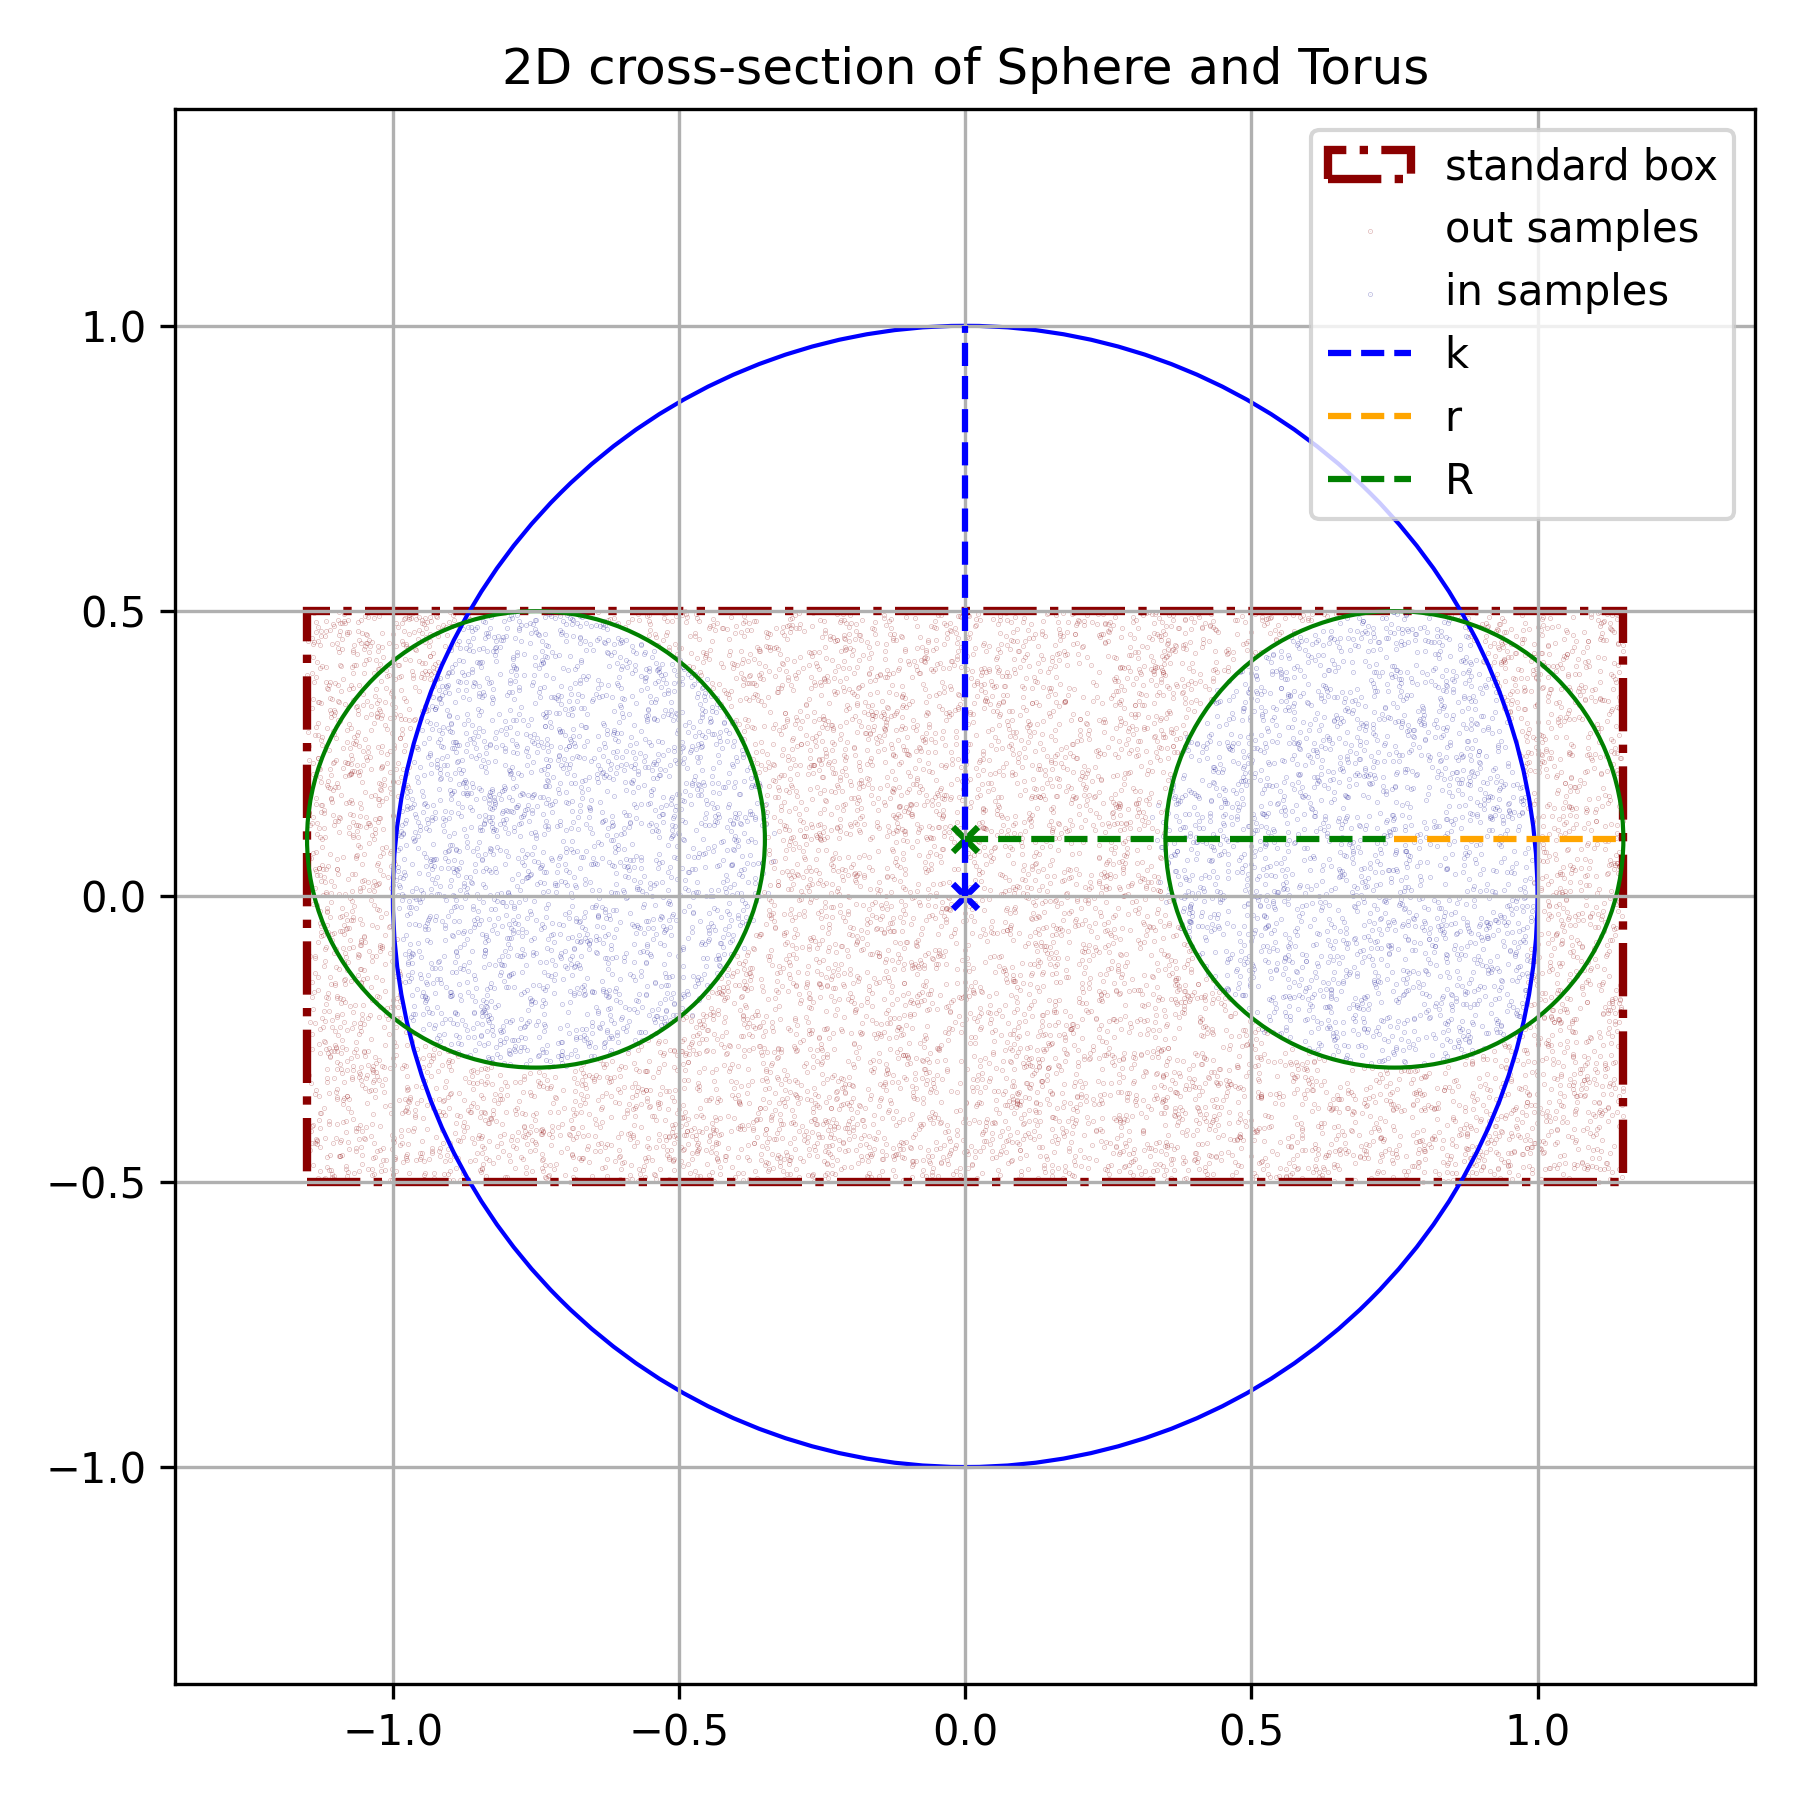
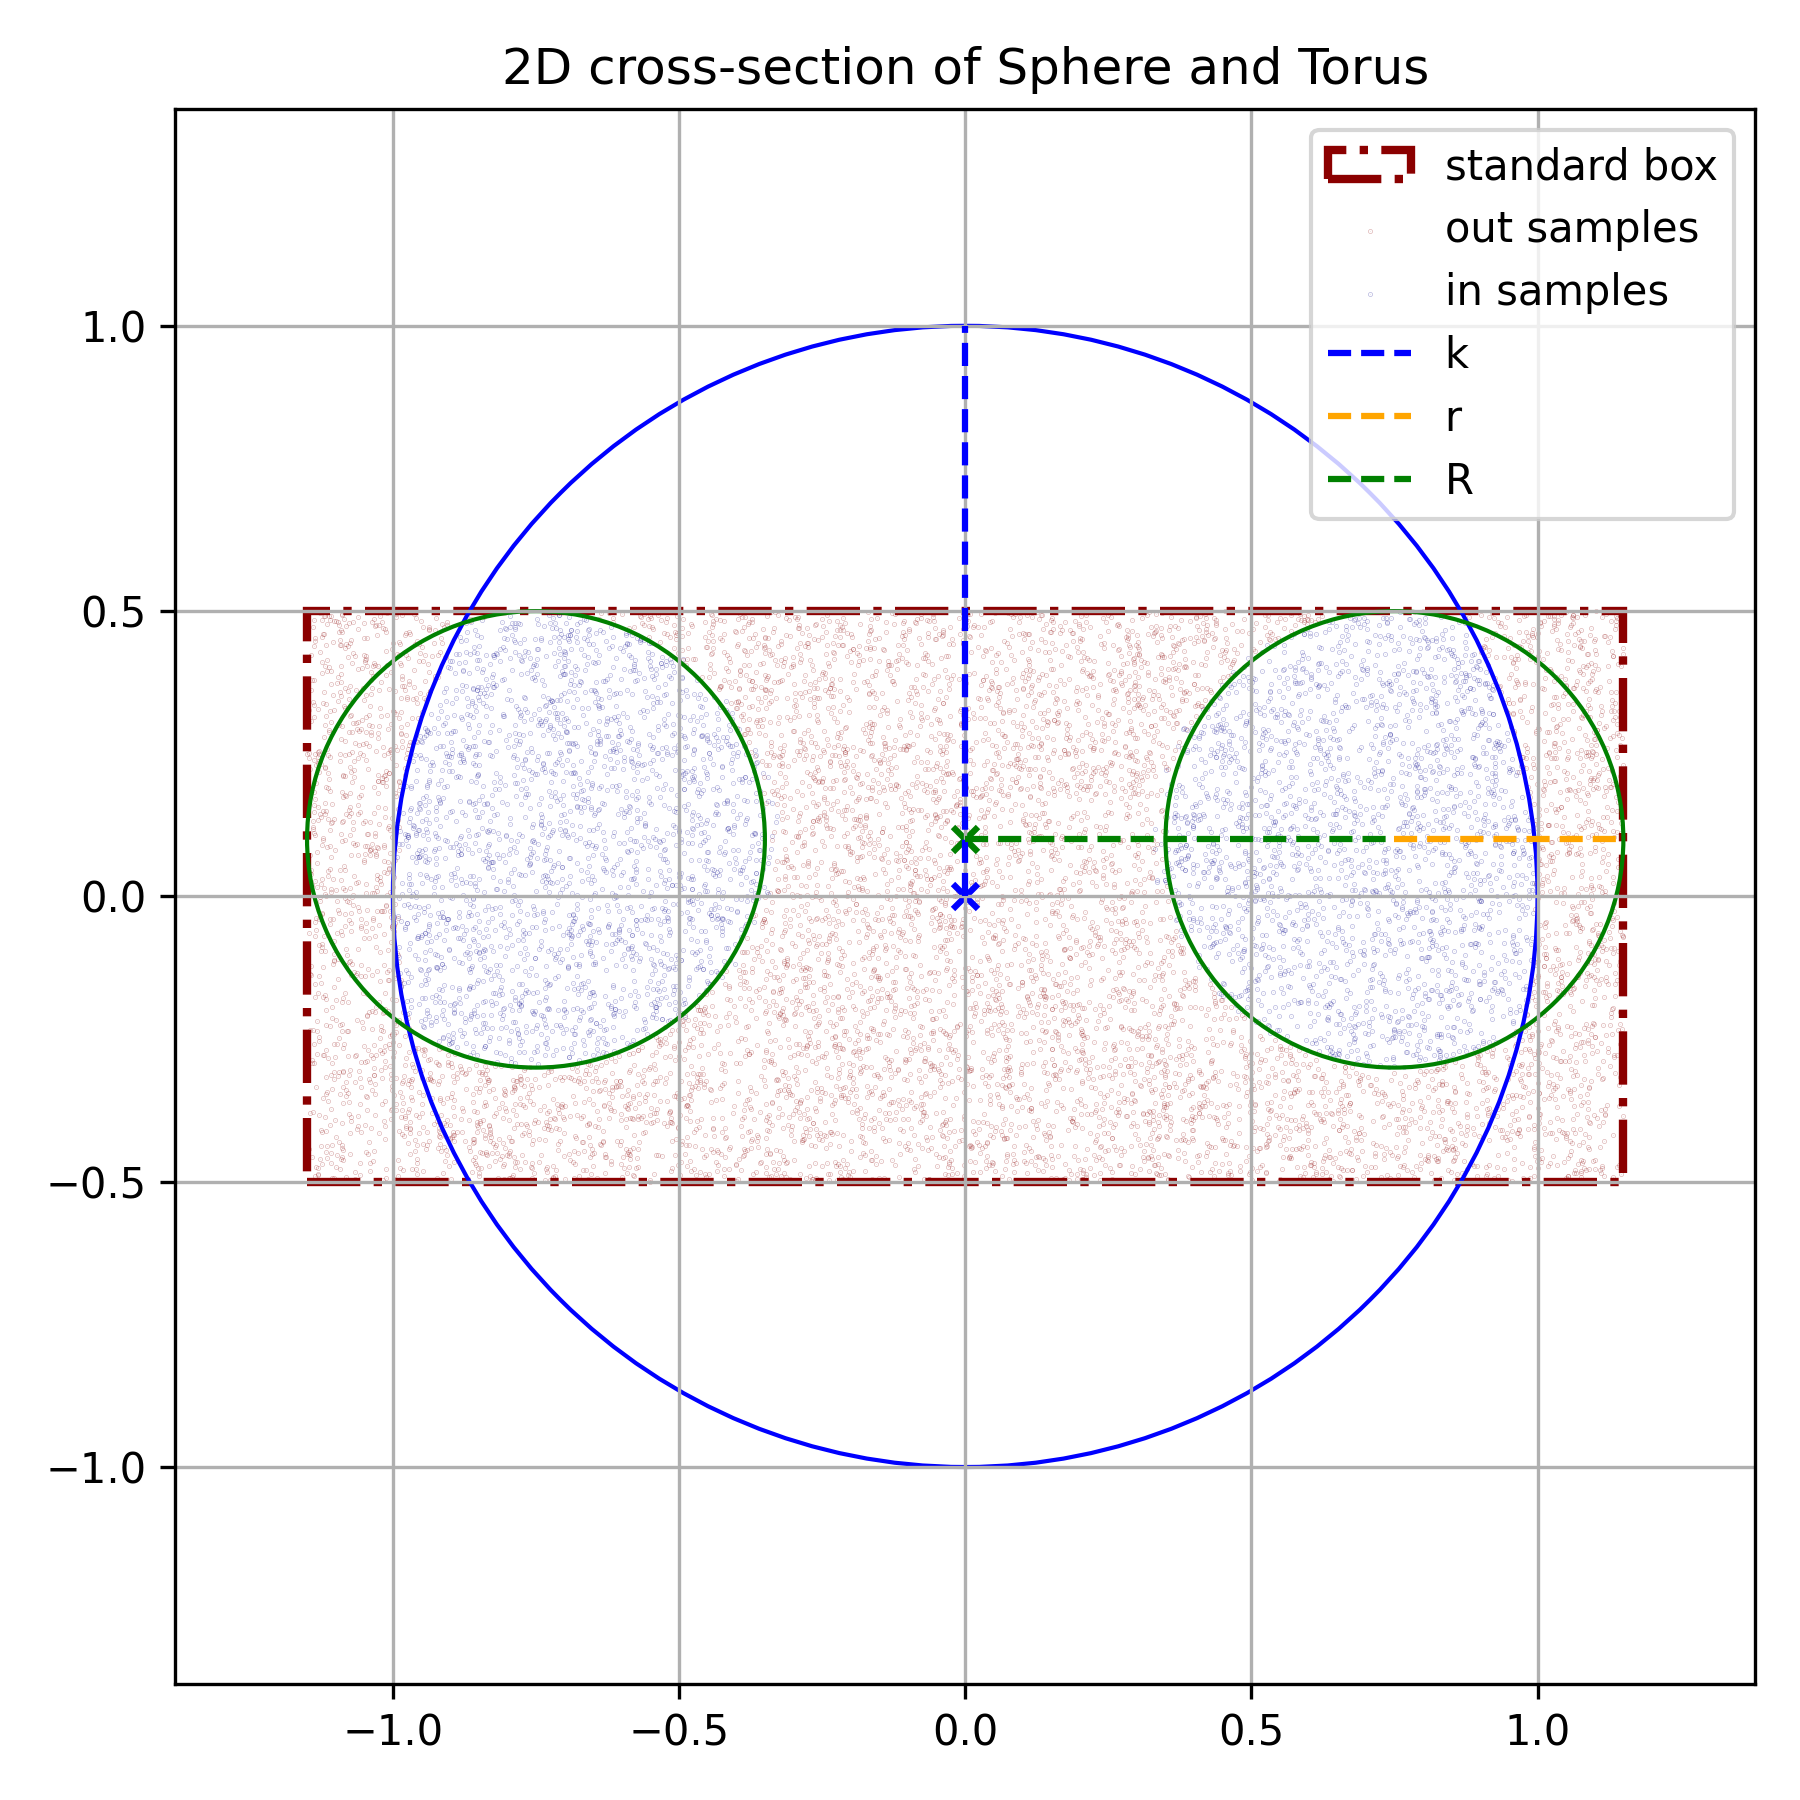
bomboclaat

Changed region(s): [[0.1556, 0.3422, 0.9022, 0.6533]]

diff --git a/main.py b/main.py
@@ -1,27 +1,35 @@
 from itertools import combinations, product
 
 import matplotlib.patches as mpatches
-from scipy.stats import norm
 import matplotlib.pyplot as plt
 import numpy as np
 import pandas as pd
 from matplotlib.axes import Axes
-from numpy.random import rand
+from numba import njit
+from scipy.stats import norm
 from tqdm import tqdm
-
-BBOX_STANDARD = []
-BBOX_SAMPLE = []
 
 
 def box_volume(box: list) -> float:
+    """
+    Calculates the volume of a 3D box defined by its min and max coordinates along each axis.
+    """
     return (box[0][1] - box[0][0]) * (box[1][1] - box[1][0]) * (box[2][1] - box[2][0])
 
 
 def box_2d_area(box: list) -> float:
+    """
+    Calculates the area of a 2D box defined by its min and max coordinates along each axis.
+    """
     return (box[0][1] - box[0][0]) * (box[1][1] - box[1][0])
 
 
-def box_standard(r: float, R: float, origin: list[float] = [0.0, 0.0, 0.0]) -> list:
+def box_standard(
+    r: float, R: float, origin: list[float] = [0.0, 0.0, 0.0]
+) -> list[list]:
+    """
+    Box exactly around the torus in 3D
+    """
     dy = R + r + origin[1]
     dx = R + r + origin[0]
     dz = r + origin[2]
@@ -42,6 +50,9 @@ def box_onesided_2d(r: float, R: float, origin: list[float] = [0.0, 0.0]) -> lis
 
 
 def box_sample(r: float, R: float, origin: list[float] = [0.0, 0.0, 0.0]) -> list:
+    """
+    Smaller box shifted towards one side of the torus in 3D
+    """
     dy = R + r
     dx = R + r
     dz = r
@@ -85,6 +96,10 @@ def samples(
     box: list[list[float]],
     n: int = 100_000,
 ):
+    """
+    Generates n random samples within the given 3D box.
+    """
+
     min_x, min_y, min_z = box[0][0], box[1][0], box[2][0]
     max_x, max_y, max_z = box[0][1], box[1][1], box[2][1]
 
@@ -98,6 +113,9 @@ def samples_2d(
     box: list[list[float]],
     n: int = 100_000,
 ):
+    """
+    Generates n random samples within the given 2D box.
+    """
     min_x, min_z = box[0][0], box[1][0]
     max_x, max_z = box[0][1], box[1][1]
 
@@ -110,34 +128,23 @@ def monte_carlo_2d(
 ) -> tuple[float, tuple[np.ndarray, np.ndarray]]:
     """
     Estimates area of intersection between circle (radius k) and torus (R, r).
+    Uses the method of Pappus to convert area to volume.
+    Returns estimated volume and the sampled points with in-mask.
     """
-    # box in x and z only (new x-y sytem defined here)
     box = box_onesided_2d(r, R)
-
-    # pts in 2d
     pts = samples_2d(box, n)
-
-    # add zero z cooridinate for sphere and torus function compatibility
     pts_3d = np.hstack((pts[:, 0:1], np.zeros((pts.shape[0], 1)), pts[:, 1:2]))
 
     inside_sphere = sphere(pts_3d, k)
     inside_torus = torus(pts_3d, r, R)
 
-    # add points inside
     count = np.sum(inside_sphere & inside_torus)
-
-    # in points boolean mask
     pts_in = inside_sphere & inside_torus
-
-    # return area
     area = box_2d_area(box) * count / n
 
-    # find centroid of area
-    centroid_pos, centroid_neg = find_centroid(pts[pts_in])
-    # find x for centroid
+    centroid_pos, _ = find_centroid(pts[pts_in])
     x_centroid = centroid_pos[0]
 
-    # rotate area around centroid to get volume
     volume = area * 2 * np.pi * x_centroid
 
     return volume, (pts, pts_in)
@@ -153,10 +160,12 @@ def monte_carlo_3d(
 ) -> tuple[float, tuple[np.ndarray, np.ndarray]]:
     """
     Estimates volume of intersection between sphere (radius k) and torus (R, r).
+    Returns estimated volume and the sampled points with in-mask.
     """
     box = box_standard(r, R, origin=origin)  # or box_sample(r, R)
     if deterministic:
-        pts = deterministic_sequence(np.mean(box, axis=1), n)
+        box = np.array(box, dtype=np.float64)
+        pts = deterministic_sequence(np.random.uniform(0, 1, 3), box)
     else:
         pts = samples(box, n)  # deterministic_sequence(box, n)
 
@@ -185,6 +194,7 @@ def mixed_sampling(
 
     With probability `p`, samples are drawn from a standard box centered at (0, 0, 0),
     and with probability (1 - p), from a smaller box centered at a shifted `origin`.
+    Returns the estimated volume and the sampled points with in-mask for both sampling methods.
     """
     if origin is None:
         origin = [0.0, 0.0, 0.0]
@@ -216,11 +226,11 @@ def mixed_sampling(
     return result, ((pts1, mask1), (pts2, mask2))
 
 
-def surface_to_volume(R: float, surface_area: float) -> float:
+def surface_to_volume(d: float, surface_area: float) -> float:
     """
     Converts surface area to volume
     """
-    volume = surface_area * 2 * np.pi * R * surface_area
+    volume = surface_area * 2 * np.pi * d * surface_area
 
     return volume
 
@@ -228,15 +238,18 @@ def surface_to_volume(R: float, surface_area: float) -> float:
 def generate_dataframe(
     k: float, r: float, R: float, n: int = 100_000
 ) -> tuple[pd.Series, pd.Series]:
-    # 1. Run monte_carlo_2d
-    # 2. Run monte_carlo_3d
-    # 3. Run mixed_sampling
-    # 4. Run deterministic_sequence
+    """
+    Generates a dataframe with the results of multiple executions of different Monte Carlo methods.
+    """
 
     results = []
+    # 1. Run monte_carlo_2d
     results.append(pd.DataFrame(run_multi_executions(monte_carlo_2d, n, k, r, R)))
+    # 2. Run monte_carlo_3d
     results.append(pd.DataFrame(run_multi_executions(monte_carlo_3d, n, k, r, R)))
+    # 3. Run mixed_sampling
     results.append(pd.DataFrame(run_multi_executions(mixed_sampling, n, k, r, R)))
+    # 4. Run deterministic_sequence
     results.append(
         pd.DataFrame(
             run_multi_executions(monte_carlo_3d, n, k, r, R, deterministic=True)
@@ -249,7 +262,10 @@ def generate_dataframe(
     return means, stds
 
 
-def generate_table(means: pd.DataFrame, std: pd.DataFrame, names_methods: list[str]):
+def generate_table(means: pd.Series, std: pd.Series, names_methods: list[str]):
+    """
+    Generates a LaTeX table with the results of the Monte Carlo methods.
+    """
 
     table = pd.DataFrame(
         {
@@ -274,17 +290,27 @@ def find_centroid(in_pts: np.ndarray) -> np.ndarray:
     return [[centroid_x_plus, centroid_y], [centroid_x_minus, centroid_y]]
 
 
-def deterministic_sequence(points: np.ndarray, n: int = 100_000) -> np.ndarray:
+@njit
+def deterministic_sequence(
+    points: np.ndarray, box: list[list], n: int = 100_000
+) -> np.ndarray:
+    """
+    Generates a deterministic sequence of n points in 3D using the logistic map.
+    """
+
     x = np.empty(n)
     y = np.empty(n)
     z = np.empty(n)
 
-    x[0], y[0], z[0] = points[:3]
+    x[0], y[0], z[0] = points[0], points[1], points[2]
     for i in range(1, n):
         x[i] = 3.8 * x[i - 1] * (1 - x[i - 1])
         y[i] = 3.8 * y[i - 1] * (1 - y[i - 1])
         z[i] = 3.8 * z[i - 1] * (1 - z[i - 1])
 
+    x = x * (box[0][1] - box[0][0]) + box[0][0]
+    y = y * (box[1][1] - box[1][0]) + box[1][0]
+    z = z * (box[2][1] - box[2][0]) + box[2][0]
     return np.stack((x, y, z), axis=1)
 
 
@@ -596,7 +622,7 @@ def run_multi_executions(
     runs: number of runs to execute
     """
     results = np.empty(runs)
-    for i in tqdm(range(runs), desc="Running simulations"):
+    for i in tqdm(range(runs), desc=f"Running simulations number", total=runs):
         if deterministic:
             result, _ = sim(k, r, R, n, deterministic=True)
         else:
@@ -836,6 +862,9 @@ def plot_mix_2d(
 def plot_volume_histogram(
     list_of_volumes: list[list[float]], case_labels: list[str], save_path: str
 ):
+    """
+    Plots histograms of volume estimates with Gaussian fits for multiple cases.
+    """
     fig, axs = plt.subplots(
         int(len(list_of_volumes) / 2),
         2,
@@ -902,7 +931,7 @@ def plot_volume_histogram(
 
 if __name__ == "__main__":
     # Parameters
-    seed_deterministic = np.random.rand(3)
+
     k = 1.0  # sphere radius
     r_a = 0.4  # torus minor radius
     R_a = 0.75  # torus major radius
@@ -1042,6 +1071,9 @@ if __name__ == "__main__":
     )
 
     # --- Generate results table ---
-    # names_methods = ["Mixed Sampling", "2D MC", "3D MC", "Deterministic Sequence"]
-    # means, std = generate_dataframe(k, r, R, n=1_000)
-    # generate_table(means, std, names_methods)
+    names_methods = ["Mixed Sampling", "2D MC", "3D MC", "Deterministic Sequence"]
+    means, std = generate_dataframe(k, r_a, R_a, n=100)
+    generate_table(means, std, names_methods)
+    count_monte_det, (pts_monte_det, pts_in_monte_det) = monte_carlo_3d(
+        k, r_a, R_a, deterministic=True
+    )

diff --git a/img/table.tex b/img/table.tex
@@ -2,9 +2,9 @@
 \toprule
 Method & Mean Volume & Std Dev \\
 \midrule
-Mixed Sampling & 1.856008 & 0.004579 \\
-2D MC & 1.856066 & 0.006578 \\
-3D MC & 1.856084 & 0.006607 \\
-Deterministic Sequence & 0.000000 & 0.000000 \\
+Mixed Sampling & 1.855315 & 0.004440 \\
+2D MC & 1.857765 & 0.006632 \\
+3D MC & 1.856314 & 0.006399 \\
+Deterministic Sequence & 2.075381 & 0.004820 \\
 \bottomrule
 \end{tabular}
